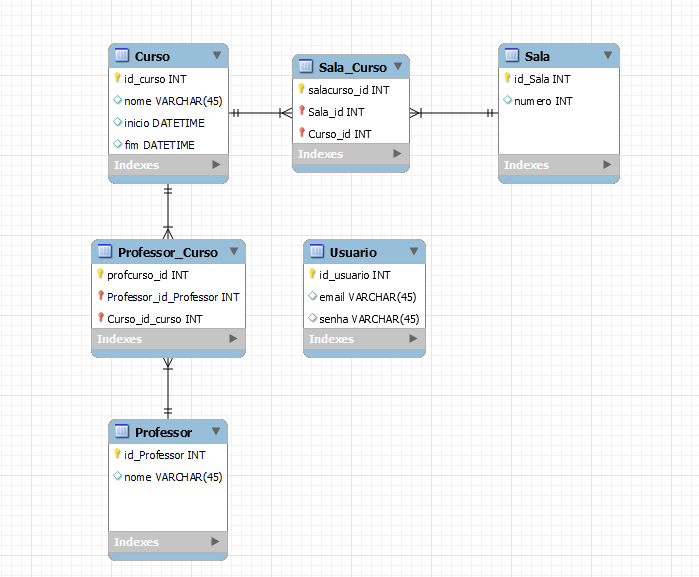
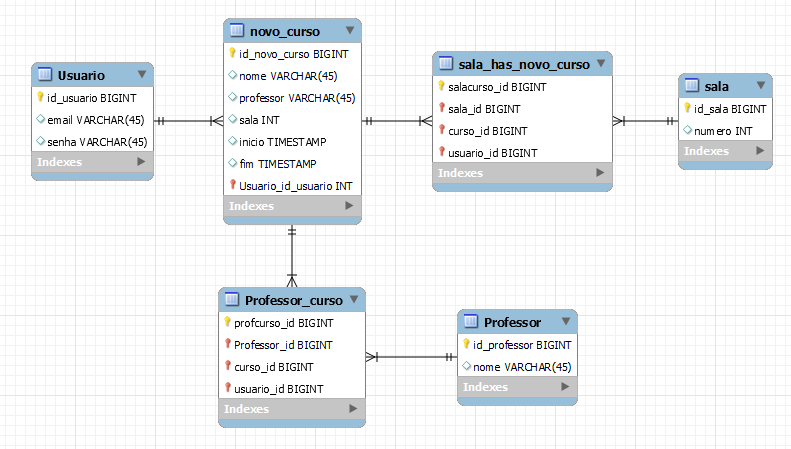
Ajuste no DER, scriptDLL  e README.md

diff --git a/README.md b/README.md
@@ -24,3 +24,7 @@ o CLI na versão: 13.5.5 e o NPM na versão: 8.5.5 instalado na maquina.
 
 7. A aplicação estará rodando em **http://localhost:4200/**.
 
+8. As credenciais corretas para o login: **Email: gusthenrique273@gmail.com, senha:123456** 
+                                         **Email: gust.leles2@gmail.com, senha: 33566296**
+                                         **Email: guseles2@gmail.com, senha: aiuhnfy3**
+
